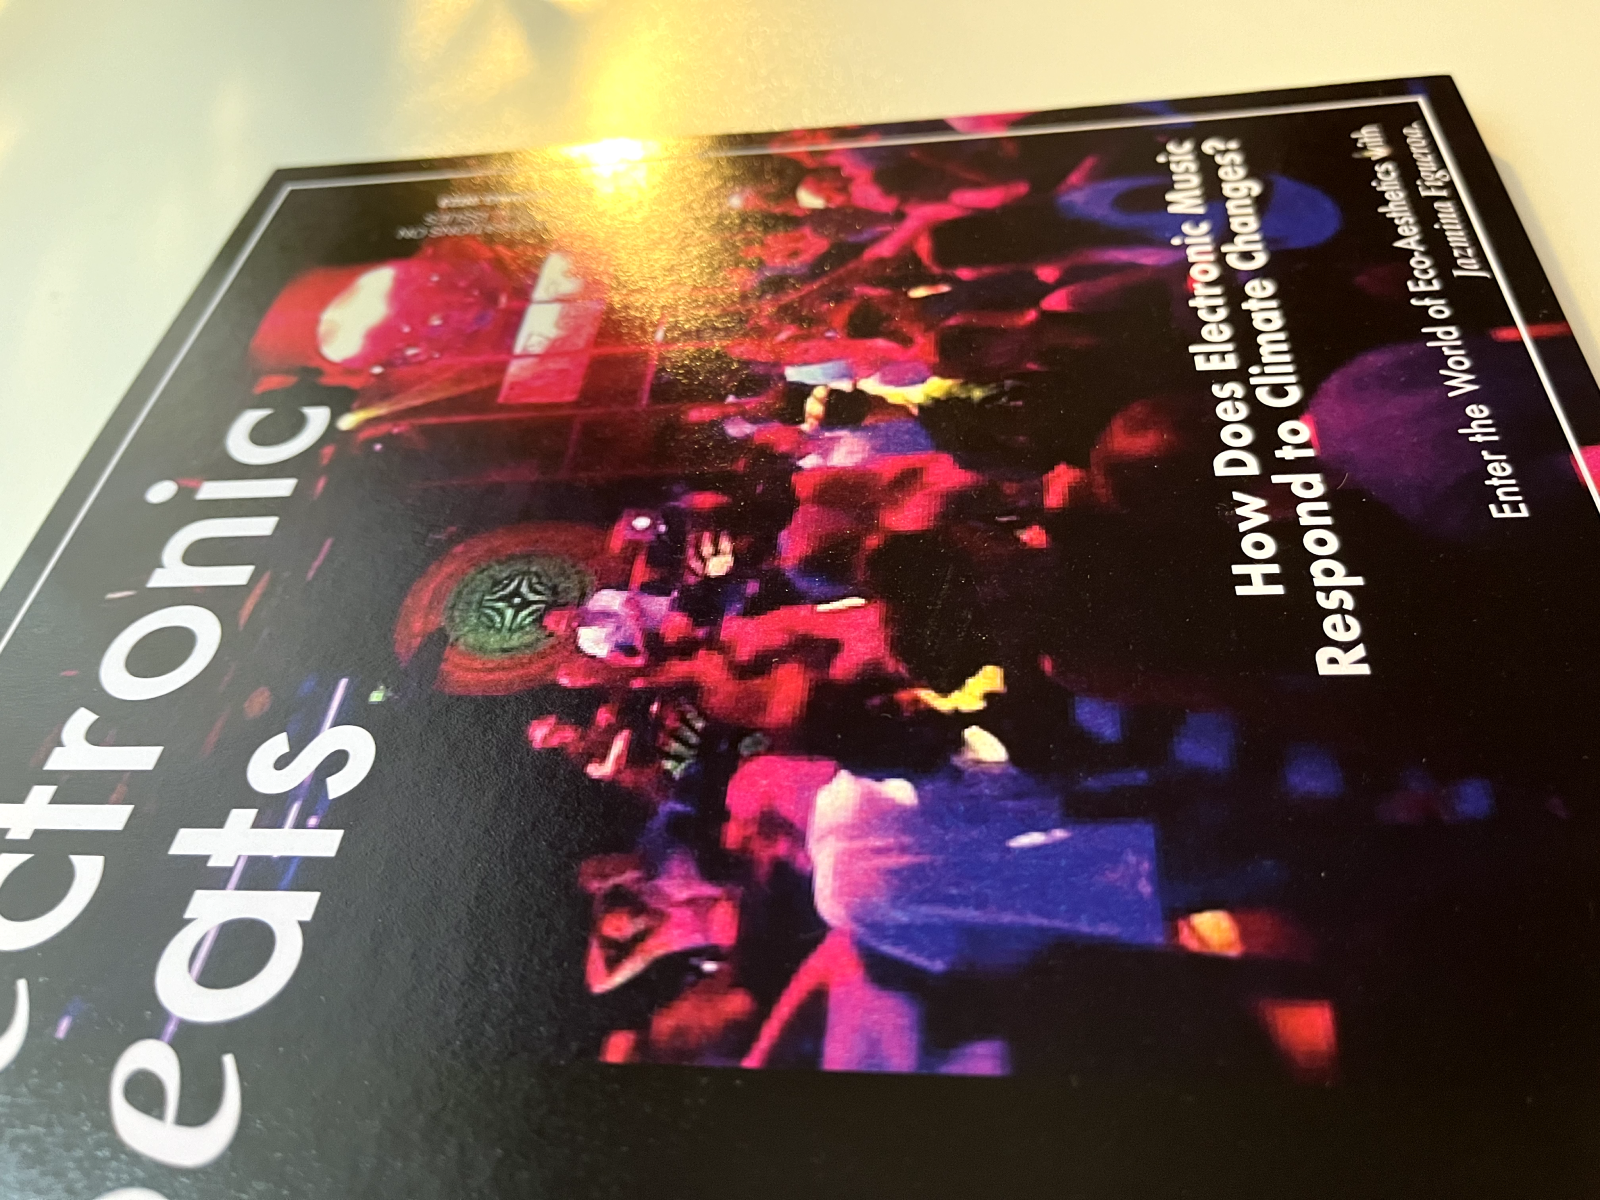
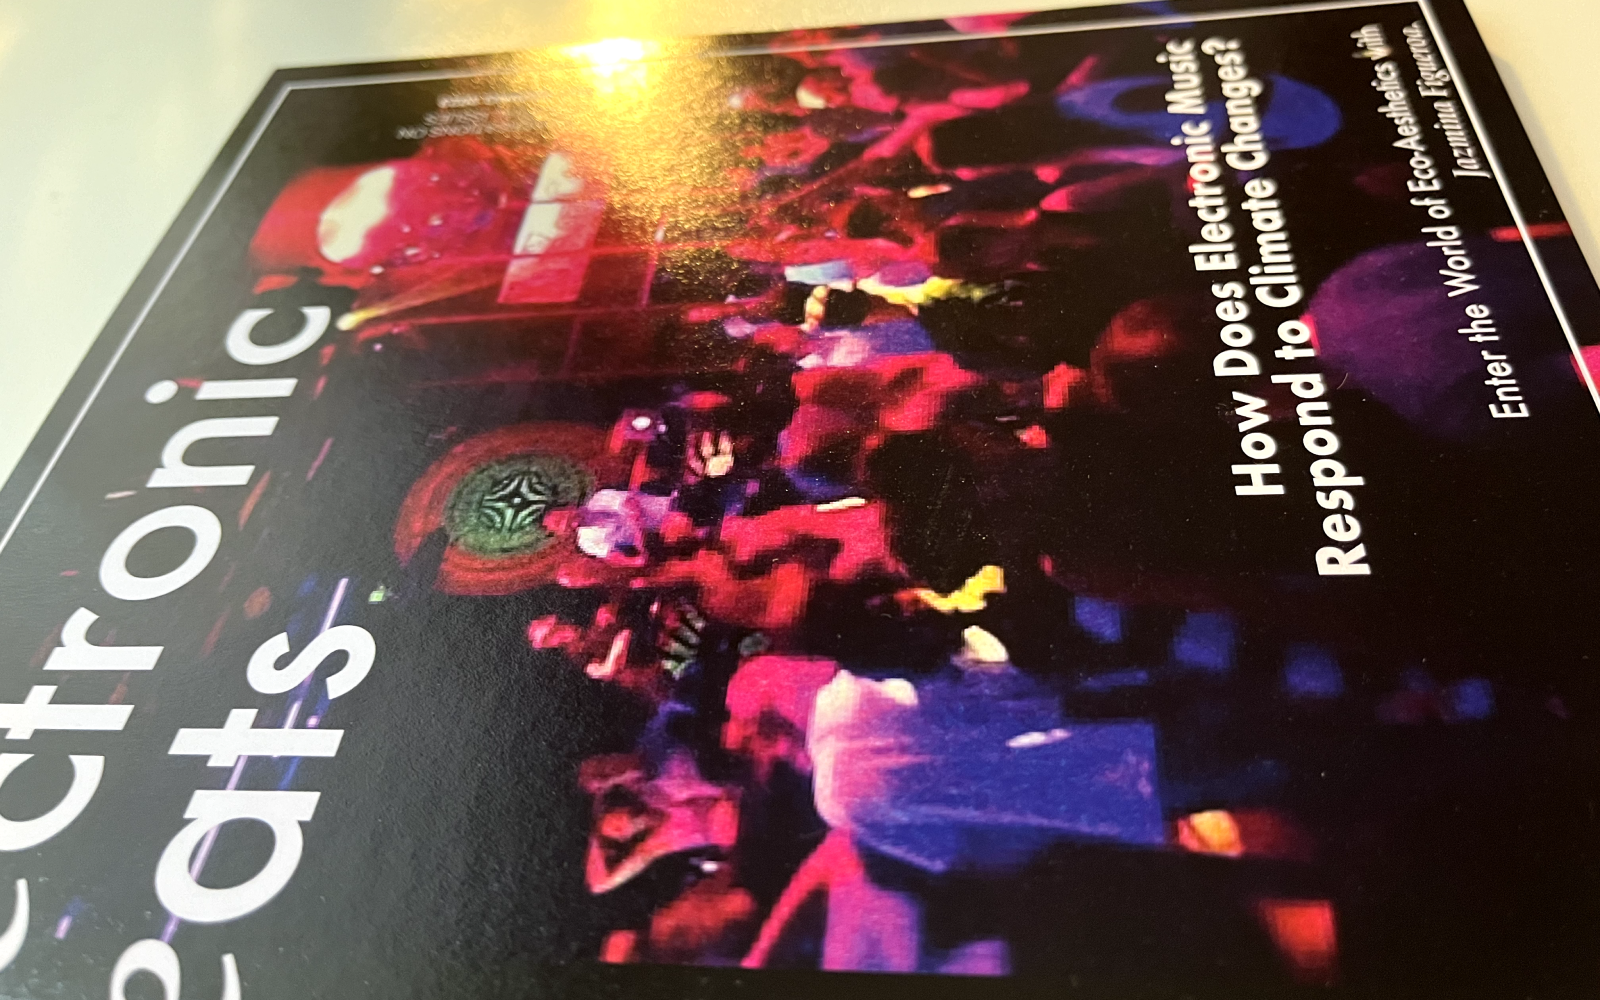
new content

diff --git a/src/components/ContentContainer/components/projectsData.js b/src/components/ContentContainer/components/projectsData.js
@@ -8,6 +8,20 @@ import beatsFirstImage from "./images/editorialBeatsFirst.png"
 import beatsSecondImage from "./images/editorialBeatsSecond.png"
 import beatsThirdImage from "./images/editorialBeatsThird.png"
 
+import sarkaCover from "./images/brandingSarkaCover.png"
+import sarkaFirst from "./images/brandingSarkaFirst.png"
+import sarkaSecond from "./images/brandingSarkaSecond.png"
+import sarkaThird from "./images/brandingSarkaThird.png"
+import sarkaFourth from "./images/brandingSarkaFourth.png"
+import sarkaFifth from "./images/brandingSarkaFifth.png"
+
+import touchingCover from "./images/TouchingCover.png"
+import touchingFirst from "./images/touchingFirst.png"
+import touchingSecond from "./images/touchingSecond.png"
+import touchingThird from "./images/touchingThird.png"
+
+import alongCover from "./images/alongCover.png"
+
 
 export const projectsData = {
         "Project name 2": {
@@ -59,6 +73,204 @@ export const projectsData = {
             containerWidth: '300px'
         }
     },
+
+    "Sarka": {
+        pageSettings: {
+            headerAlt: 'some alt text',
+            designType: 'Branding',
+            name: 'Career coach Identity',
+            headerImgSrc: sarkaCover,
+            explaining: 'Šárka Smrčková is a personal and career coach who helps women to change their lives. The main goal of the project was to create a visual identity that would provide a friendly environment for Sarka’s clients. Another aspect was to make the easily reused templates. This project covers such topics as the creation of a consistent brand identity for a person, the creation of a clear and user-friendly landing website, and attaching all necessary stationery and applications.',
+            body: [
+                {
+                    text: 'The logo is minimalistic and represents other aspects of the brand. Dark and Light variants could be used on different backgrounds.',
+                    imageSrc: sarkaFirst,
+                    isImageFirst: true,
+                },
+                {
+                    text: 'The The typographical system is created from one decorative font - Cinsel, which is used for the title and H1, and two additional - Encode Sans and Mplus 1p. All fonts are legible and provide a sense of professionalism and style. of fonts was based on two major aspects. First of all, they needed to combine the feeling of poetry and the topic of poetry and be modern and strict enough. Secondly, it had to work with Cyrillic.',
+                    imageSrc: sarkaSecond,
+                    isImageFirst: false,
+
+                },
+                
+                {
+                    text: 'The primary color is pink, which also has different shades to apply with a high variety of possible contexts. Another crucial part is a greyscale palette which predicts all usages of text and background.',
+                    imageSrc: sarkaThird,
+                    isImageFirst: true,
+
+                },
+
+
+                {
+                    text: 'The website provides all essential information on services and creates a safe space to ask questions by following the principles of the design system.ebsite provides all essential information on services and creates a safe space to ask questions by following the principles of the design system.',
+                    imageSrc: sarkaFourth,
+                    isImageFirst: false,
+
+                },
+
+                {
+                    text: 'For social media, it was important to create consistent templates for such types of posts as reviews, tips, news, etc. Some were executed as carousels, but most use photos and type.',
+                    imageSrc: sarkaFifth,
+                    isImageFirst: true,
+
+                },
+                // {
+                //     text: '',
+                //     imageSrc: fourthImage,
+                //     isImageFirst: true,
+
+                // },
+                // {
+                //     text: 'Dolor sit amet, consectetur adipiscing elit, sed do eiusmod tempor incididunt ut labore. Ut enim ad minim veniam, quis nostrud exercitation ullamco laboris nisi ut aliquip exent, Lorem ipsum dolor sit amet, consectetur adipiscing elit, sed do eiusmod tempor incididunt ut labore. Ut enim ad minim veniam, quis nostrud exercitation ullamco laboris nisi ut aliquip exent.',
+                //     imageSrc: 'https://picsum.photos/400?random=5',
+                //     isImageFirst: true,
+                // },
+            ]    
+        },
+        imageButtonSettings: {
+            imageWidth: '60vh',
+            // imageHeight: '30vh',
+            imageAlt: 'some title',
+            imageLeft: '150px',
+            imageTop: '380px',
+            imageSrc: sarkaCover,
+            containerWidth: '300px'
+        }
+    },
+
+
+
+    "Touching Lives": {
+        pageSettings: {
+            headerAlt: 'some alt text',
+            designType: 'Branding',
+            name: 'Touching Lives',
+            headerImgSrc: touchingCover,
+            explaining: 'Touching Lives Switzerland is a partner organization of Touching Lives Mumbai that is dedicated to fostering global unity and positive, sustainable impact. It provides grants for social initiatives, offers mentorship support, facilitates knowledge-sharing, and unites communities worldwide. Our task was to develop a website that would reflect the organization’s features and principles as well as describe its initiatives and tell about the impact stories achieved by Touching Lives community members. ',
+            body: [
+                {
+                    text: 'To better communicate the mission of Touching Lives, our team designed a brand identity for the organization, including the logotype. The logo is constructed of blocks on which the name stands. This corresponds to the idea of support and unity. Apart from that, the blocks are shaped in the form of TL, corresponding to the name of the organization. ',
+                    imageSrc: touchingFirst,
+                    isImageFirst: true,
+                },
+                {
+                    text: 'As for the colors of the branding, we designed the color pallet that consists of three primary colors: blue, yellow, and orange. Such a color pallet unites the parent organization in India (TL Mumbai, which associates with orange shades) and its partner in Switzerland (the blue shades). The secondary colors are mostly used on the website to provide a better user experience and required contrast ratio.',
+                    imageSrc: touchingSecond,
+                    isImageFirst: false,
+
+                },
+                
+                {
+                    text: "The website serves as the primary information platform for the Touching Lives Switzerland organization. It offers users information about TL's mission and describes the initiatives it lays the foundation for. Visitors to the website can explore both past and ongoing events within the Touching Lives Switzerland organization and also have the opportunity to participate in its projects and initiatives.",
+                    imageSrc: touchingThird,
+                    isImageFirst: true,
+
+                },
+
+
+                {
+                    text: 'The website provides all essential information on services and creates a safe space to ask questions by following the principles of the design system.ebsite provides all essential information on services and creates a safe space to ask questions by following the principles of the design system.',
+                    imageSrc: sarkaFourth,
+                    isImageFirst: false,
+
+                },
+
+                {
+                    text: 'For social media, it was important to create consistent templates for such types of posts as reviews, tips, news, etc. Some were executed as carousels, but most use photos and type.',
+                    imageSrc: sarkaFifth,
+                    isImageFirst: true,
+
+                },
+                // {
+                //     text: '',
+                //     imageSrc: fourthImage,
+                //     isImageFirst: true,
+
+                // },
+                // {
+                //     text: 'Dolor sit amet, consectetur adipiscing elit, sed do eiusmod tempor incididunt ut labore. Ut enim ad minim veniam, quis nostrud exercitation ullamco laboris nisi ut aliquip exent, Lorem ipsum dolor sit amet, consectetur adipiscing elit, sed do eiusmod tempor incididunt ut labore. Ut enim ad minim veniam, quis nostrud exercitation ullamco laboris nisi ut aliquip exent.',
+                //     imageSrc: 'https://picsum.photos/400?random=5',
+                //     isImageFirst: true,
+                // },
+            ]    
+        },
+        imageButtonSettings: {
+            imageWidth: '60vh',
+            // imageHeight: '30vh',
+            imageAlt: 'some title',
+            imageLeft: '150px',
+            imageTop: '40px',
+            imageSrc: touchingCover,
+            containerWidth: '300px'
+        }
+    },
+
+    "Along": {
+        pageSettings: {
+            headerAlt: 'some alt text',
+            designType: 'Branding',
+            name: 'Along',
+            headerImgSrc: alongCover,
+            explaining: 'Šárka Smrčková is a personal and career coach who helps women to change their lives. The main goal of the project was to create a visual identity that would provide a friendly environment for Sarka’s clients. Another aspect was to make the easily reused templates. This project covers such topics as the creation of a consistent brand identity for a person, the creation of a clear and user-friendly landing website, and attaching all necessary stationery and applications.',
+            body: [
+                {
+                    text: 'The logo is minimalistic and represents other aspects of the brand. Dark and Light variants could be used on different backgrounds.',
+                    imageSrc: sarkaFirst,
+                    isImageFirst: true,
+                },
+                {
+                    text: 'The The typographical system is created from one decorative font - Cinsel, which is used for the title and H1, and two additional - Encode Sans and Mplus 1p. All fonts are legible and provide a sense of professionalism and style. of fonts was based on two major aspects. First of all, they needed to combine the feeling of poetry and the topic of poetry and be modern and strict enough. Secondly, it had to work with Cyrillic.',
+                    imageSrc: sarkaSecond,
+                    isImageFirst: false,
+
+                },
+                
+                {
+                    text: 'The primary color is pink, which also has different shades to apply with a high variety of possible contexts. Another crucial part is a greyscale palette which predicts all usages of text and background.',
+                    imageSrc: sarkaThird,
+                    isImageFirst: true,
+
+                },
+
+
+                {
+                    text: 'The website provides all essential information on services and creates a safe space to ask questions by following the principles of the design system.ebsite provides all essential information on services and creates a safe space to ask questions by following the principles of the design system.',
+                    imageSrc: sarkaFourth,
+                    isImageFirst: false,
+
+                },
+
+                {
+                    text: 'For social media, it was important to create consistent templates for such types of posts as reviews, tips, news, etc. Some were executed as carousels, but most use photos and type.',
+                    imageSrc: sarkaFifth,
+                    isImageFirst: true,
+
+                },
+                // {
+                //     text: '',
+                //     imageSrc: fourthImage,
+                //     isImageFirst: true,
+
+                // },
+                // {
+                //     text: 'Dolor sit amet, consectetur adipiscing elit, sed do eiusmod tempor incididunt ut labore. Ut enim ad minim veniam, quis nostrud exercitation ullamco laboris nisi ut aliquip exent, Lorem ipsum dolor sit amet, consectetur adipiscing elit, sed do eiusmod tempor incididunt ut labore. Ut enim ad minim veniam, quis nostrud exercitation ullamco laboris nisi ut aliquip exent.',
+                //     imageSrc: 'https://picsum.photos/400?random=5',
+                //     isImageFirst: true,
+                // },
+            ]    
+        },
+        imageButtonSettings: {
+            imageWidth: '60vh',
+            // imageHeight: '30vh',
+            imageAlt: 'some title',
+            imageLeft: '150px',
+            imageTop: '380px',
+            imageSrc: alongCover,
+            containerWidth: '300px'
+        }
+    },
+
     book: {
         pageSettings: {
             headerAlt: 'some alt text',
@@ -95,12 +307,18 @@ export const projectsData = {
             imageWidth: '60vh',
             // imageHeight: '200px',
             imageAlt: 'some title',
-            imageLeft: '100px',
-            imageTop: '300px',
+            imageLeft: '50px',
+            imageTop: '100px',
             imageSrc: beatsCoverImage,
             containerWidth: '100px'
         }
     },
+
+
+
+    
+
+    
 
 
 
